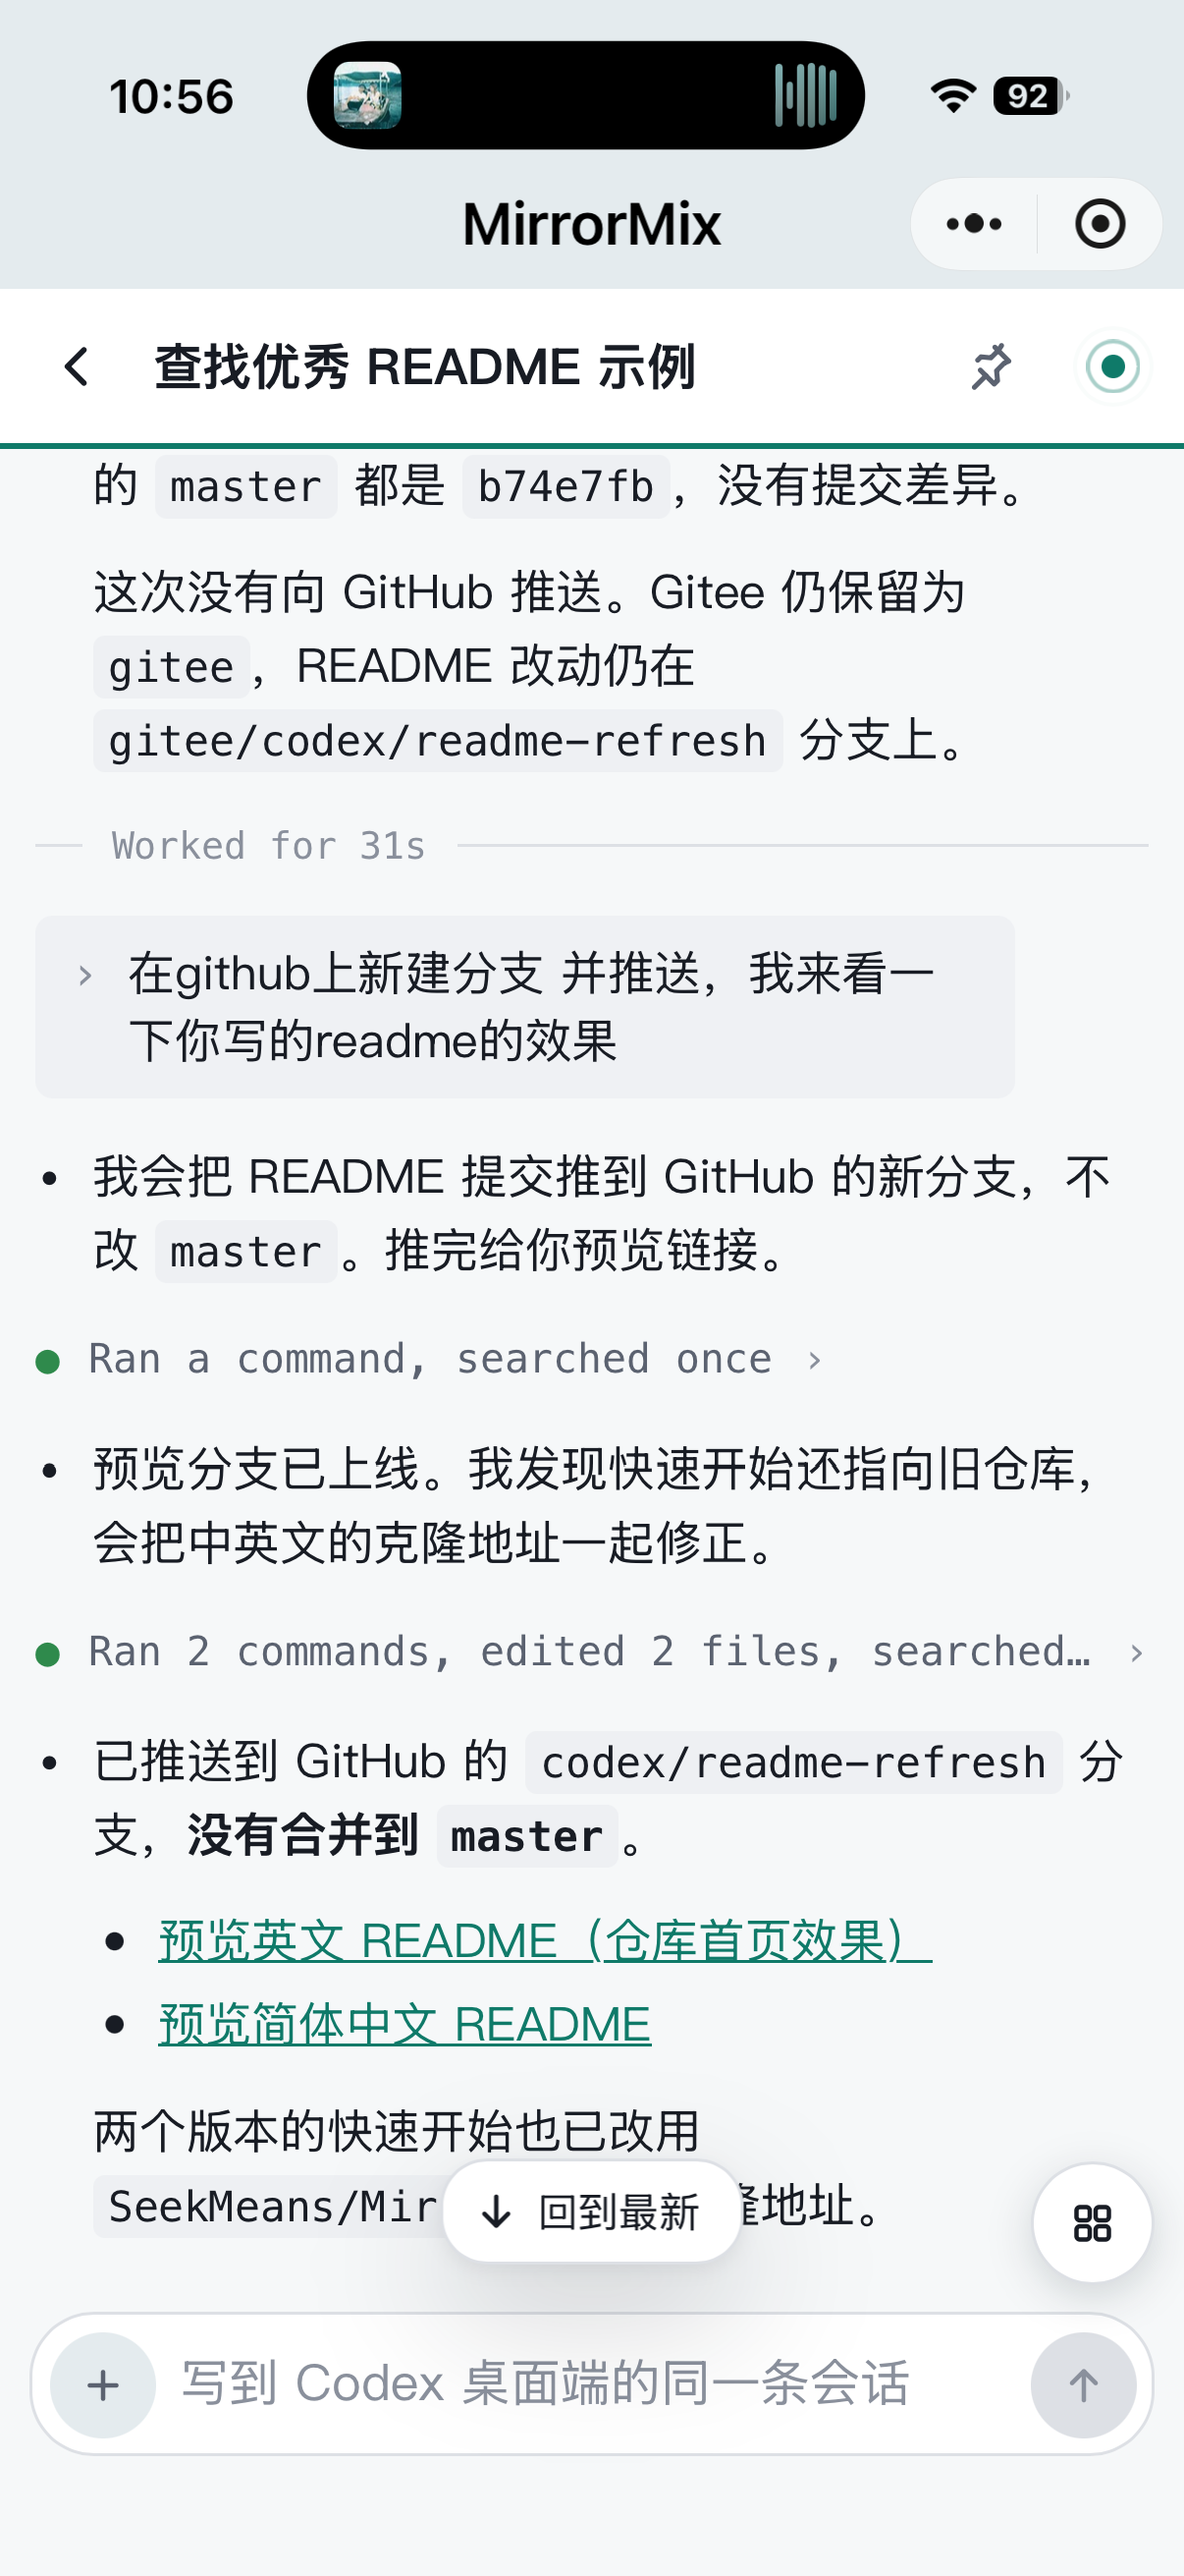
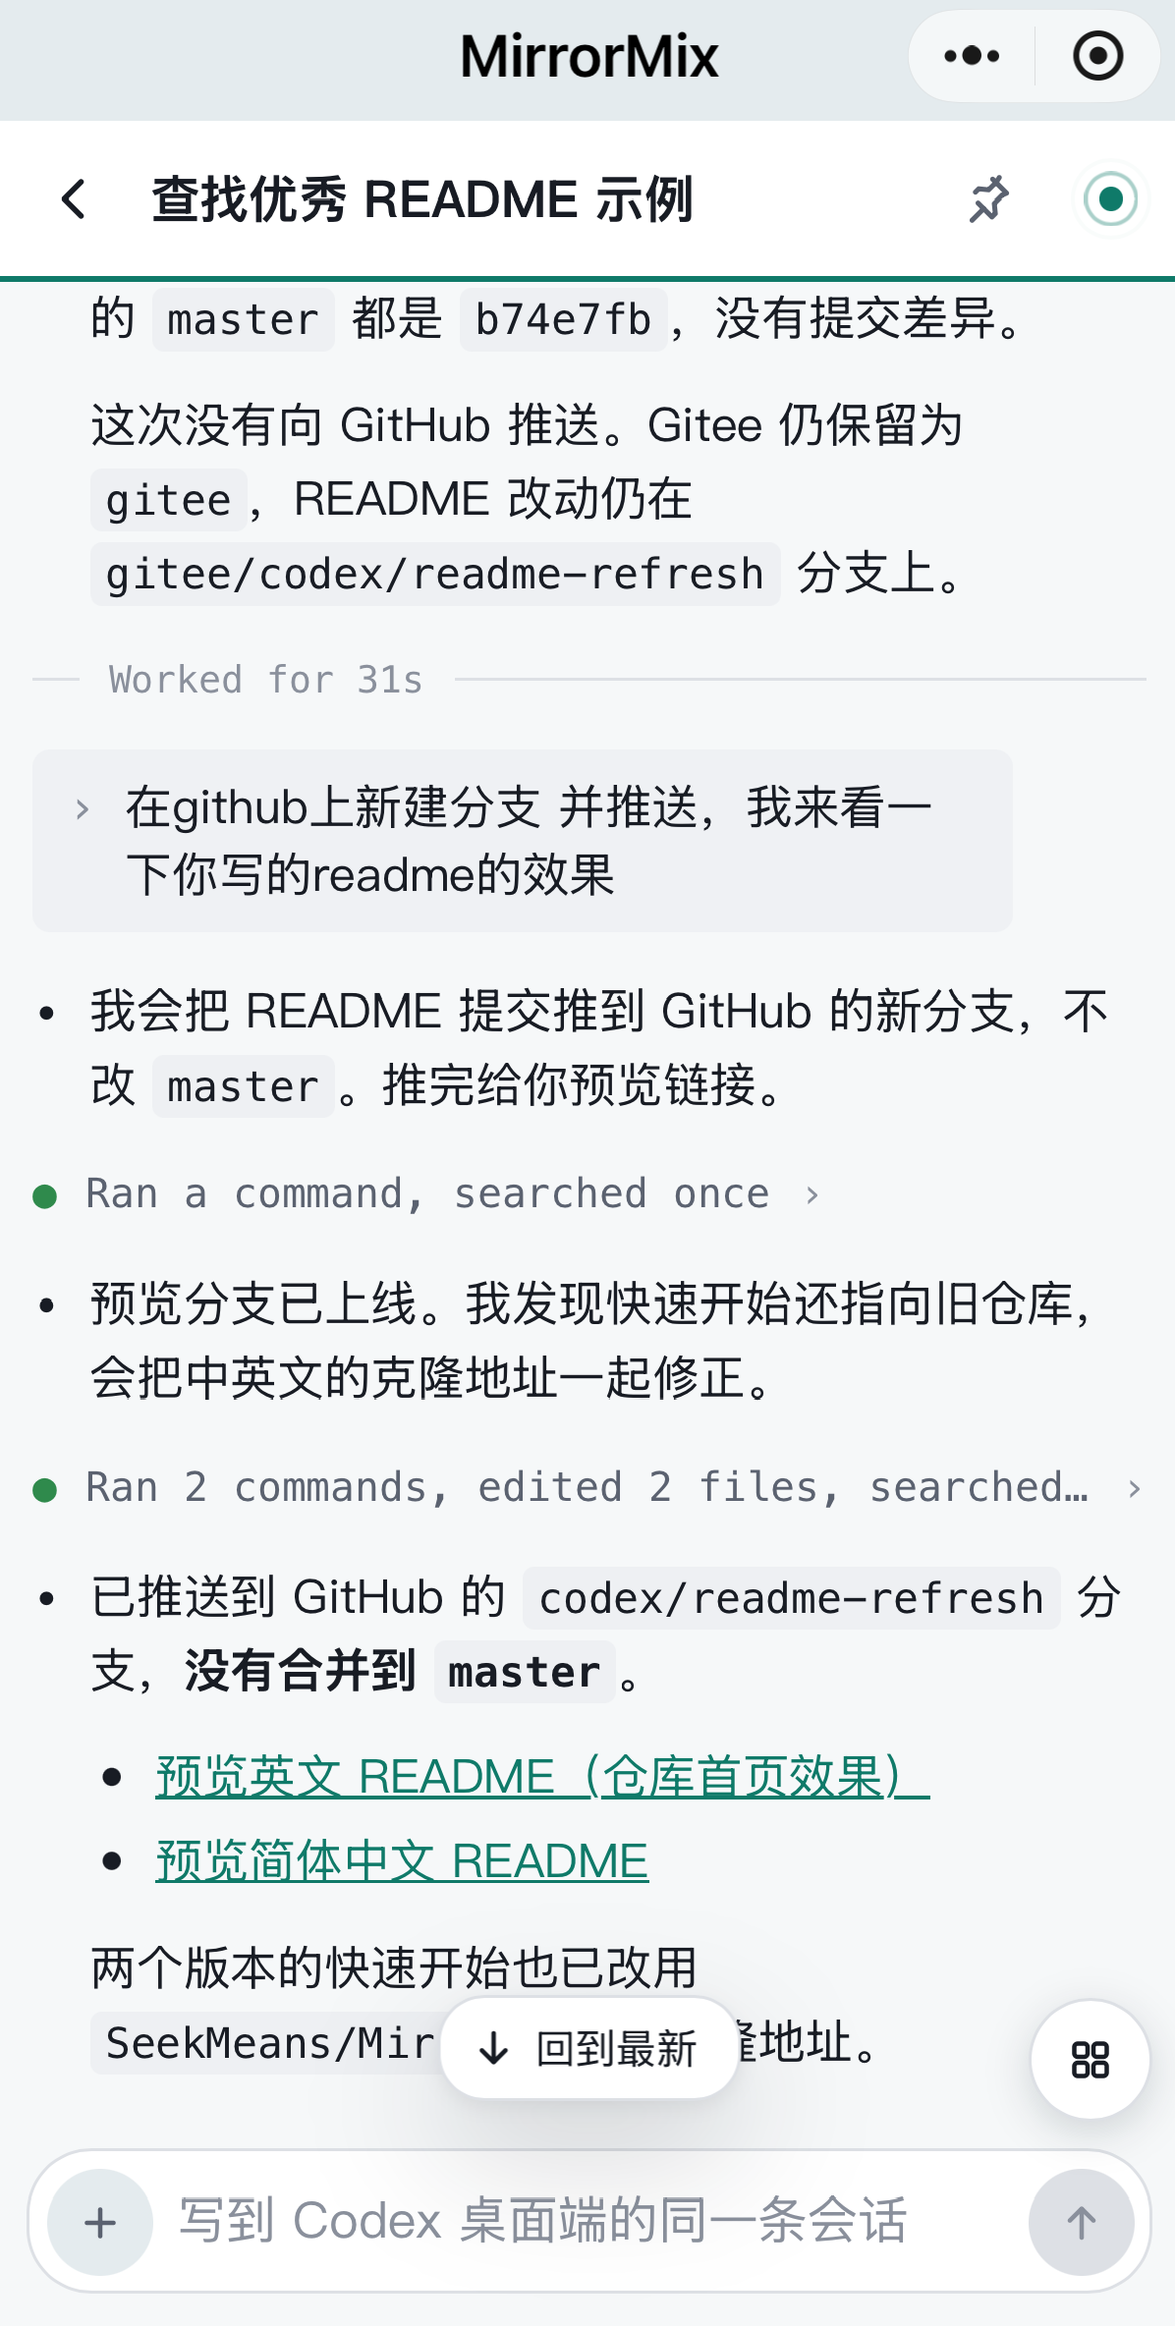
Refine README previews and phone access options

diff --git a/README.zh-CN.md b/README.zh-CN.md
@@ -27,16 +27,28 @@ MirrorMix 把你电脑上的开发工作台带到手机。出门前让 Codex 开
 - **一键跑运维和部署任务。** 把常用脚本和目标服务器存成任务，例如更新测试环境或重启服务。之后在手机上点「执行」，就能看到状态和输出，不用再手敲一遍命令。
 
 <p align="center">
-  <img src="docs/mobile-session.png" width="280" alt="手机上的 MirrorMix：继续电脑上已有的 Codex 会话" />
+  <a href="docs/mobile-dashboard.png"><img src="docs/mobile-dashboard.png" width="130" alt="手机工作台：查看今日活动" /></a>
+  <a href="docs/mobile-session.png"><img src="docs/mobile-session.png" width="110" alt="手机会话：继续电脑上已有的 Codex 对话" /></a>
 </p>
+<p align="center"><sub>左：手机工作台 · 右：继续 Codex 会话（点击查看大图）</sub></p>
 
 ## 怎么连上手机
 
-如果 MirrorMix 已经在 Windows 电脑上运行，手机只需要浏览器：
+先在 Windows 电脑上运行 MirrorMix，再选一种方式开通手机访问：
 
-1. **申请访问地址。** 在 MirrorMix 小程序里申请。审核通过后，小程序会显示子域名和连接口令。
-2. **在电脑上开通。** 打开 MirrorMix 的「设置 → 通用设置 → 外网访问」，填入这两项，保存后等待显示「已连接」。
-3. **在手机上继续。** 用手机浏览器打开开通的 HTTPS 地址，用这台电脑的 Windows 账户登录。想继续聊，就点开已有会话；想操作服务器，就打开「插件 → SSH 连接」。
+- **有云主机：自己搭内网穿透。** 用自己的云主机做中转，将 HTTPS 地址转发到 Windows 电脑上的 MirrorMix。无需向小程序申请。
+- **没有云主机：用小程序申请端口。** 审核通过后，小程序会显示子域名和连接口令。在电脑端 MirrorMix 打开「设置 → 通用设置 → 外网访问」，填入这两项并保存，等待显示「已连接」。
+
+开通后，用手机浏览器打开对应的 **HTTPS 地址**，用这台电脑的 Windows 账户登录。想继续聊，就点开已有会话；想操作服务器，就打开「插件 → SSH 连接」。
+
+<details>
+<summary>自建内网穿透的配置要点</summary>
+
+例如用 frp：在云主机上运行 frps，Windows 上的 frpc 转发到本机的 `127.0.0.1:4789`。在云主机上用 HTTPS 反向代理作为入口，支持 WebSocket，并保留原始 `Host`（或传递正确的 `X-Forwarded-Host`）。如果代理改写了主机名且未转发原始主机名，在启动 MirrorMix 前设置 `MIRRORMIX_ALLOWED_ORIGINS` 为实际访问的地址，例如 `https://mm.example.com`。
+
+不要对公网开放转发后的 MirrorMix 端口；通过 HTTPS 入口访问，并保留登录保护。
+
+</details>
 
 **出门前记得：** 让电脑保持开机、联网，并让 MirrorMix 继续运行。外网访问请保留登录保护，不要把本地服务直接暴露到公网。
 
@@ -129,15 +141,6 @@ tailscale serve --bg 4789
 ```
 
 同一 Tailscale 账号下，手机打开 `https://电脑名.你的tailnet名.ts.net`。
-
-#### 自建隧道
-
-用 frp / Caddy / nginx 等把流量转到 `127.0.0.1:4789`，在服务器上终止 TLS，不要把隧道原始端口直接暴露到公网。若公网地址与浏览器访问地址不一致，启动前设置：
-
-```powershell
-$env:MIRRORMIX_ALLOWED_ORIGINS = "https://mm.example.com"
-npm start
-```
 
 ### 配置一览
 

diff --git a/README.md b/README.md
@@ -27,16 +27,28 @@ MirrorMix gives you access to your PC's development workspace from your phone. S
 - **Run repeatable maintenance and deployments.** Save a script and its target server as a task, such as updating a test environment or restarting a service. Tap **Run** on your phone and see the status and output without retyping commands.
 
 <p align="center">
-  <img src="docs/mobile-session.png" width="280" alt="MirrorMix on a phone, continuing an existing Codex session from the PC" />
+  <a href="docs/mobile-dashboard.png"><img src="docs/mobile-dashboard.png" width="130" alt="Mobile workspace showing today's activity" /></a>
+  <a href="docs/mobile-session.png"><img src="docs/mobile-session.png" width="110" alt="Continuing an existing Codex session on a phone" /></a>
 </p>
+<p align="center"><sub>Left: mobile workspace · Right: Codex session (select either image to enlarge)</sub></p>
 
 ## Connect your phone
 
-Once MirrorMix is running on your Windows PC, all you need on your phone is a browser:
+Start MirrorMix on your Windows PC, then choose how to reach it from your phone:
 
-1. **Request an access address.** Apply in the MirrorMix mini program. Once approved, it shows a subdomain and a connection token.
-2. **Enable access on your PC.** In MirrorMix, go to **Settings → General → Remote access**. Enter the subdomain and token, save, and wait for **Connected**.
-3. **Pick up on your phone.** Open your HTTPS access address and sign in with the PC's Windows account. Open an existing chat, or go to **Plugins → SSH** to work on a server.
+- **Have a cloud server? Run your own tunnel.** Use your server to relay traffic from an HTTPS address to MirrorMix on your Windows PC. No mini program application is needed.
+- **No cloud server? Request a port in the MirrorMix mini program.** Once approved, it shows a subdomain and a connection token. In MirrorMix on your PC, go to **Settings → General → Remote access**, enter both, save, and wait for **Connected**.
+
+Open your **HTTPS address** in your phone browser and sign in with the PC's Windows account. Open an existing chat, or go to **Plugins → SSH** to work on a server.
+
+<details>
+<summary>Self-hosted tunnel setup notes</summary>
+
+For example, run frps on your cloud server and point frpc on Windows at the local service on `127.0.0.1:4789`. Put an HTTPS reverse proxy on the cloud server, support WebSockets, and preserve the original `Host` (or pass the correct `X-Forwarded-Host`). If your proxy rewrites the host and doesn't forward the original, set `MIRRORMIX_ALLOWED_ORIGINS` to your browser-facing origin, such as `https://mm.example.com`, before starting MirrorMix.
+
+Do not expose the forwarded MirrorMix port directly to the internet. Use the HTTPS entry point and keep sign-in enabled.
+
+</details>
 
 **Before you leave:** Keep the PC on, online, and running MirrorMix. Keep sign-in enabled for remote access, and don't expose the local service directly to the internet.
 
@@ -129,15 +141,6 @@ tailscale serve --bg 4789
 ```
 
 Open `https://<machine>.<tailnet>.ts.net` from your phone on the same Tailscale account.
-
-#### Self-hosted tunnel
-
-Point frp/Caddy/nginx (or similar) at `127.0.0.1:4789`, terminate TLS on the server, and do not expose the raw tunnel port to the internet. If your public origin differs from what the browser uses, set:
-
-```powershell
-$env:MIRRORMIX_ALLOWED_ORIGINS = "https://mm.example.com"
-npm start
-```
 
 ### Config tips
 
